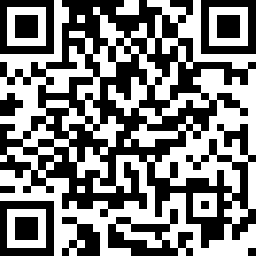
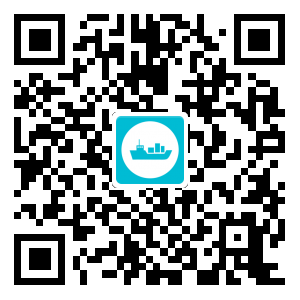
1202

diff --git a/src/views/home/about/index.vue b/src/views/home/about/index.vue
@@ -15,7 +15,7 @@
         >
       </div>
       <div class="value">
-        <p>浙江船家宝科技有限公司</p>
+        <p>浙江亿船信息服务有限公司</p>
         <div class="text">
           {{ content[active].value }}
         </div>
@@ -52,17 +52,17 @@ export default {
         {
           img: require('@/assets/img/about.png'),
           label: '公司简介',
-          value: ' 船家宝是一家专注于内河航运移动互联网应用、船舶信息服务、航运物流和港航大数据分析为核心的互联网公司。'
+          value: '浙江亿船信息服务有限公司是一家专业从事智慧物联、软件开发、移动互联网应用和大数据分析的高科技企业。公司正积极致力于成为交通、港航、海事、物流等领域具有移动互联软件开发和大数据分析应用的专业化系统解决方案提供商。'
         },
         {
           img: require('@/assets/img/about.png'),
           label: '相关服务',
-          value: '船佳宝是一款连接船舶、航运公司、货主、船代、货代、船员的移动互联网产品，重点致力于为用户提供航运信息、船舶位置查寻、水运物流服务、航运金融保险等相关服务。'
+          value: '在软件开发、互联网应用、物联网应用、大数据应用等方面有着拥有非常丰富的研发应用经验，能准确有效的地获取到客户的需求，并通过自己的专业技能提出解决方案，为客户开发真正需要的产品。我们多次为政府机关及多家企事业单位提供智慧港航、智能交通、智慧海事、互联网应用、水运物流等领域技术支持和服务，得到了广大客户的认可。'
         },
         {
           img: require('@/assets/img/about.png'),
           label: '价值观',
-          value: '船佳宝始终本着“客户第一、团队第二、诚信和谐、激情乐观”的核心价值观，不断探索和发展，努力实现船佳宝让航运生活更美好的发展愿景。'
+          value: '面对市场的激烈竞争，我们深知责任和拼搏是我们事业成功的根本。“路漫漫其修远兮”，我们始终本着“以客户为中心”的指导思想，努力为亿船的发展不断探索。我们的努力，加上您的信任，定会让这支队伍成长为互联网界一颗璀璨的明珠。'
         }
       ]
     }

diff --git a/src/views/home/banner/index.vue b/src/views/home/banner/index.vue
@@ -13,7 +13,7 @@
             <div class="icon" />
             <div class="font">
               <p>船佳宝</p>
-              <span>www.cjbe88.com</span>
+              <span>zjeship.com</span>
             </div>
           </div>
           <div class="right">
@@ -106,7 +106,7 @@ export default {
       window.scrollTo(0, anchor.offsetTop)
     },
     download() {
-      window.open('https://cjbe88.com/cjbapk/app-release.apk')
+      window.open('https://apk.cjbe88.com/cjb/app.apk')
     }
   }
 }
@@ -223,7 +223,6 @@ export default {
           .download_left {
             margin-right: 40px;
             .ewm {
-              padding: 8px;
               background: #fff;
               border-radius: 8px;
               img {

diff --git a/src/views/home/foot/index.vue b/src/views/home/foot/index.vue
@@ -1,7 +1,7 @@
 <template>
   <div class="container">
-    <p class="line1">公司地址：浙江省杭州市余杭区闲林都市产业园嘉企路16号华是科技园</p>
-    <p class="line2">船佳宝备案 浙ICP备19029734号</p>
+    <p class="line1">公司地址：浙江省杭州市余杭区五常街道荆山社区荆山湾68号</p>
+    <p class="line2">船佳宝备案 浙ICP备18015754号-1</p>
   </div>
 </template>
 

diff --git a/public/index.html b/public/index.html
@@ -5,7 +5,7 @@
   <meta charset="utf-8">
   <meta name="viewport" content="width=device-width, initial-scale=1">
   <link rel="icon" href="<%= BASE_URL %>favicon.ico">
-  <title><%= webpackConfig.name %></title>
+  <title>船佳宝</title>
 </head>
 
 <body>

diff --git a/src/views/home/contact/index.vue b/src/views/home/contact/index.vue
@@ -61,7 +61,7 @@ export default {
         },
         {
           label: '公司邮箱：',
-          value: '1007557735@qq.com'
+          value: 'zjycship@163.com'
         }
       ]
     }
